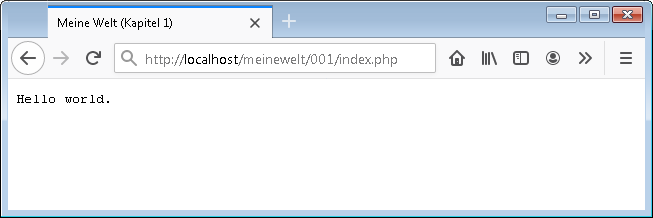
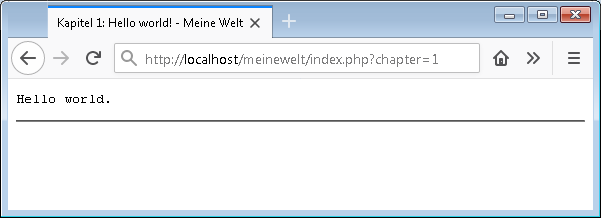
Globaler Index mit Kapitelaufruf

diff --git a/Content.php b/Content.php
@@ -1,0 +1,107 @@
+<?php
+
+require_once "Logic.php";
+
+class Content {
+
+	const project = "Meine Welt";
+
+	private $title = null;
+	private $body = "";
+
+	private static $chapters = array(
+		"1" => "Kapitel 1: Hello world!",
+	);
+
+	/**
+	 * @var Logic $logic
+	 */
+	private $logic = null;
+
+	public function show(){
+
+		if (isset($_REQUEST['chapter'])){
+			$this->body = $this->get_body($_REQUEST['chapter']);
+		}else{
+			$this->body = $this->get_toc();
+		}
+
+		echo $this->html_page();
+
+	}
+
+	private function get_toc(){
+		$toc = "";
+
+		$toc_options = array();
+		foreach (self::$chapters as $nr => $title){
+			$toc_options[] = "<option value='$nr'>$title</option>";
+		}
+		$toc_options = implode("\n", $toc_options);
+
+		$toc.="<form method='get'>
+<select name='chapter'>
+	$toc_options
+</select>
+<input type='submit' value='Kapitel laden'>
+</form>";
+		return $toc;
+	}
+
+	private function get_body($chapter){
+		switch ($chapter){
+			case 1:
+				require_once "001/Logic1.php";
+				$this->logic = new Logic1();
+				break;
+			default:
+				break;
+		}
+		if($this->logic===null){
+			return "Unbekanntes Kapitel!";
+		}
+
+		ob_flush();
+		ob_start();
+		$body = $this->logic->get_body();
+		$body_echo = ob_get_clean();
+
+		if($body_echo){
+			$body = "<pre>$body_echo</pre><hr>".$body;
+		}
+
+		$this->title = self::$chapters[$chapter];
+
+		return $body;
+	}
+
+	private function get_title(){
+
+		$title = self::project;
+		if($this->title){
+			$title = $this->title . " - " . $title;
+		}
+
+		return $title;
+	}
+
+	private function html_page(){
+		$html = "";
+
+		$title = $this->get_title();
+
+		$html .= "<!DOCTYPE html>
+<html>
+<head>
+	<title>$title</title>
+	<meta charset=\"utf-8\">
+</head>
+<body>
+$this->body
+</body>
+</html>";
+
+		return $html;
+	}
+
+}

diff --git a/001/Logic1.php b/001/Logic1.php
@@ -1,6 +1,6 @@
 <?php
-class Logic1 {
-	public static function say_hello(){
+class Logic1 implements Logic {
+	public function get_body() {
 		$output = "";
 
 

diff --git a/Logic.php b/Logic.php
@@ -1,0 +1,10 @@
+<?php
+
+interface Logic {
+
+	/**
+	 * @return string
+	 */
+	public function get_body();
+
+}

diff --git a/index.php b/index.php
@@ -1,0 +1,5 @@
+<?php
+
+require_once "Content.php";
+$content = new Content();
+$content->show();
